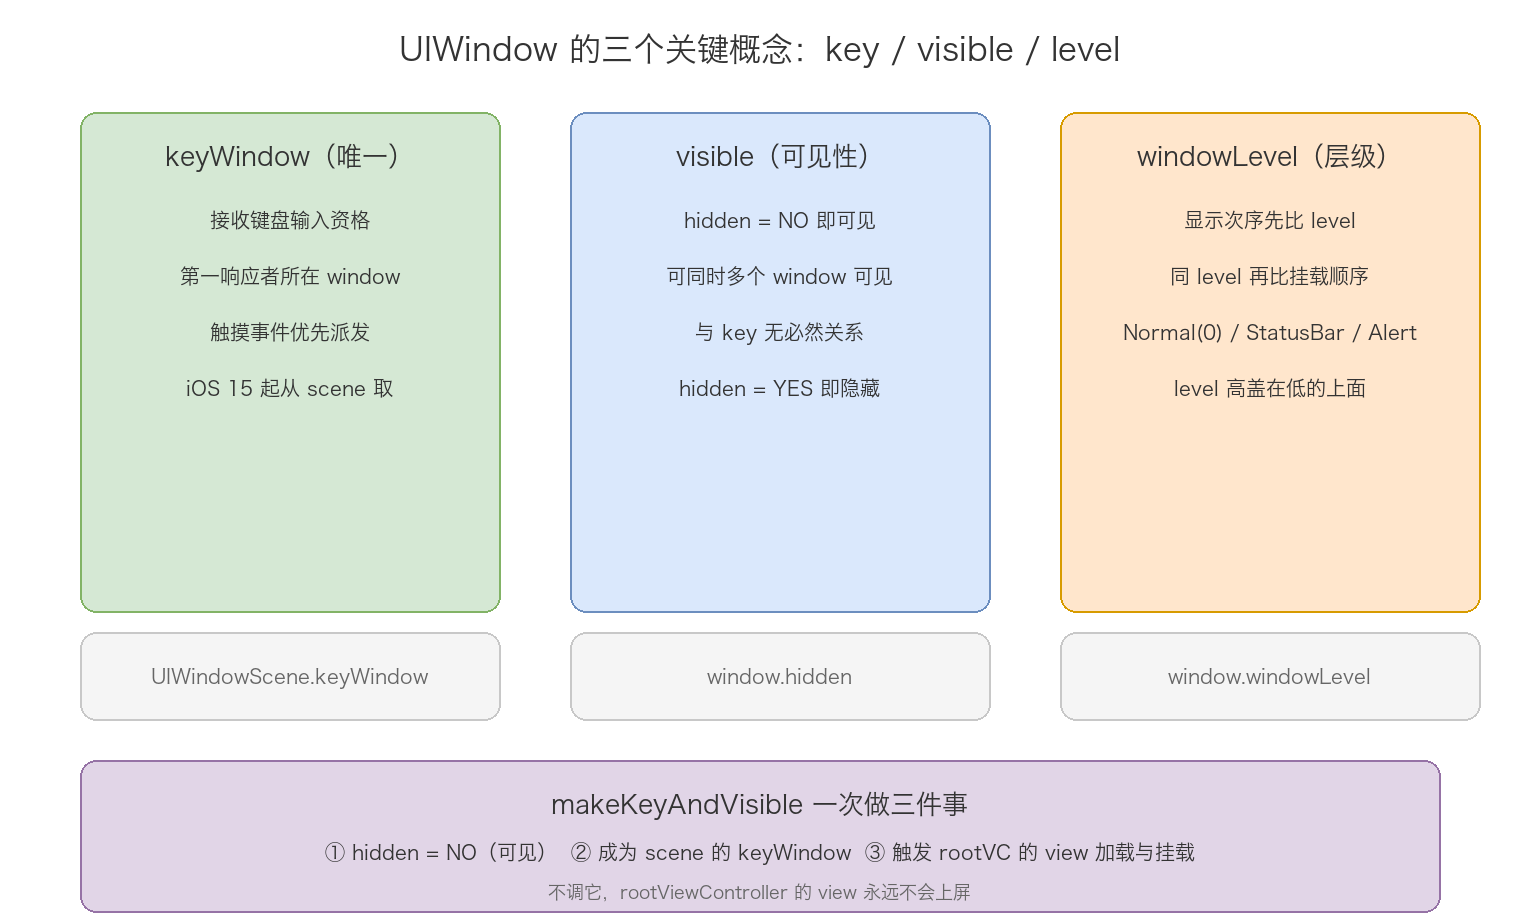
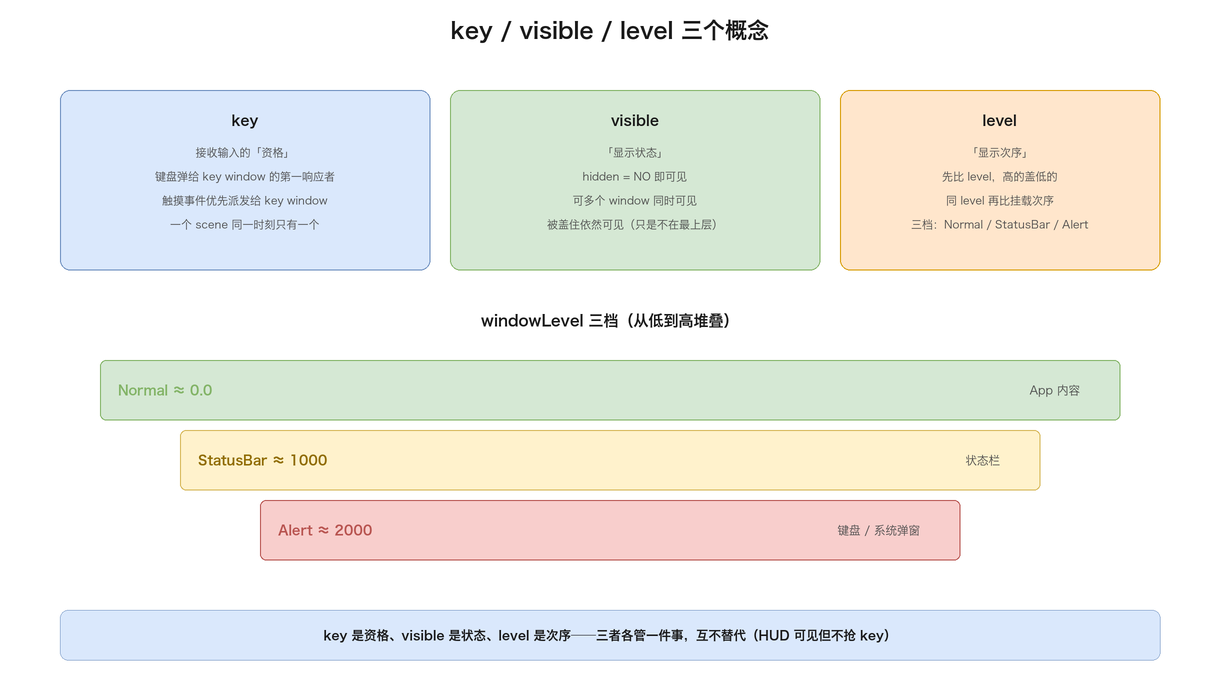
docs: 重绘 UIWindow 体系配图并补充 UIScene/UIWindow 知识点

diff --git a/notes/mobile/ios/uikit/01-UIWindow体系分析.md b/notes/mobile/ios/uikit/01-UIWindow体系分析.md
@@ -108,6 +108,131 @@ iOS 13 之后 AppDelegate 只保留两件事：进程级生命周期（applicati
 
 一个实际的兼容问题：老项目迁移 iOS 13+ 时，如果 Info.plist 里没有 UIApplicationSceneManifest，系统走老路径，AppDelegate 继续管 window，程序也能跑。所以有些项目「半迁移」状态下两套代码并存，排查启动问题时先看这个 manifest 有没有配。
 
+### 4. scene 的配置：Info.plist 与 UISceneConfiguration
+
+scene 不是凭空出现的，它的「出生规格」由两处共同决定：Info.plist 里的静态声明，和运行时返回的 UISceneConfiguration 对象。
+
+Info.plist 的 UIApplicationSceneManifest 是一份声明表，告诉系统这个 App 支持哪些场景、每个场景用什么 delegate、有没有 storyboard：
+
+```xml
+<key>UIApplicationSceneManifest</key>
+<dict>
+    <key>UIApplicationSupportsMultipleScenes</key>
+    <true/>
+    <key>UISceneConfigurations</key>
+    <dict>
+        <key>UIWindowSceneSessionRoleApplication</key>
+        <array>
+            <dict>
+                <key>UISceneConfigurationName</key>
+                <string>Default Configuration</string>
+                <key>UISceneDelegateClassName</key>
+                <string>SceneDelegate</string>
+                <key>UISceneStoryboardFile</key>
+                <string>Main</string>
+            </dict>
+        </array>
+        <key>UIWindowSceneSessionRoleExternalDisplay</key>
+        <array>
+            <dict>
+                <key>UISceneConfigurationName</key>
+                <string>External Display</string>
+                <key>UISceneDelegateClassName</key>
+                <string>ExternalSceneDelegate</string>
+            </dict>
+        </array>
+    </dict>
+</dict>
+```
+
+三个关键字段的作用：
+
+| 字段 | 作用 |
+| ---- | ---- |
+| `UIApplicationSupportsMultipleScenes` | 是否支持多场景。YES 才允许 iPad 多窗口，老 App 迁移多窗口时加这个开关 |
+| `UISceneConfigurations` | 按 role 分组：Application（主窗口）、ExternalDisplay（外接屏） |
+| 每个配置里的 `UISceneConfigurationName` | 配置名，运行时按这个名字去取对应的 UISceneConfiguration |
+
+运行时侧，AppDelegate 的回调返回一个 UISceneConfiguration，系统拿它去实例化 scene 和 delegate：
+
+```objc
+- (UISceneConfiguration *)application:(UIApplication *)application
+    configurationForConnectingSceneSession:(UISceneSession *)connectingSceneSession
+                                  options:(UISceneConnectionOptions *)options {
+    if (connectingSceneSession.role == UISceneSessionRoleExternalDisplay) {
+        return [UISceneConfiguration configurationWithName:@"External Display"
+                                               sessionRole:connectingSceneSession.role];
+    }
+    return [UISceneConfiguration configurationWithName:@"Default Configuration"
+                                           sessionRole:connectingSceneSession.role];
+}
+```
+
+UISceneConfiguration 的四个核心属性：
+
+```objc
+@interface UISceneConfiguration : NSObject
+@property(nonatomic, readonly, copy) NSString *name;              // 与 plist 里名字对应
+@property(nonatomic, readonly) UISceneSessionRole role;            // Application / ExternalDisplay
+@property(nonatomic, strong) Class sceneClass;                     // 默认 UIWindowScene
+@property(nonatomic, strong) Class delegateClass;                  // 默认 SceneDelegate
+@property(nonatomic, strong, nullable) UIStoryboard *storyboard;   // 关联 storyboard（可选）
+@end
+```
+
+一个容易踩的坑：`configurationWithName:` 传的名字必须和 Info.plist 里某个 `UISceneConfigurationName` 完全一致，否则系统找不到对应配置直接崩溃。纯代码建 UI（不用 storyboard）时，`UISceneDelegateClassName` 要写、`UISceneStoryboardFile` 留空，否则系统会去找一个不存在的 Main.storyboard。
+
+### 5. UISceneActivationState：四种激活状态
+
+scene 当前「处于什么阶段」用 UISceneActivationState 描述，四种取值：
+
+```c
+typedef NS_ENUM(NSInteger, UISceneActivationState) {
+    UISceneActivationStateUnattached         = -1,  // 未连接：已注册但尚未激活
+    UISceneActivationStateForegroundActive   = 0,   // 前台活跃：可交互、收事件
+    UISceneActivationStateForegroundInactive = 1,   // 前台非活跃：可见但不可交互
+    UISceneActivationStateBackground         = 2,   // 后台：不可见
+};
+```
+
+这四种状态正好对应第 2 节生命周期状态机里的四个节点，迁移时机和回调一一对应：
+
+| 状态迁移 | 触发回调 |
+| ---- | ---- |
+| Unattached → ForegroundInactive | `scene:willConnectToSession:options:` |
+| ForegroundInactive → ForegroundActive | `sceneDidBecomeActive:` |
+| ForegroundActive → ForegroundInactive | `sceneWillResignActive:` |
+| ForegroundInactive → Background | `sceneDidEnterBackground:` |
+| 任一状态 → Unattached | `sceneDidDisconnect:` |
+
+判断「现在哪个 scene 在最前面」就是遍历 connectedScenes 找 activationState 等于 ForegroundActive 的那个——第三章取 keyWindow 的代码里就是这么干的。理解这个枚举，也就理解了为什么多场景下不能用「App 是否 active」判断「当前窗口是否可交互」：active 是 per-scene 的，两个并排窗口一个 active 一个 inactive。
+
+### 6. UIWindowScene：scene 与 window 的绑定
+
+UIScene 是抽象基类，日常打交道的是它的子类 UIWindowScene——只有带 window 的 scene 才对普通 App 有意义。UIWindowScene 持有这个 scene 下的所有 window 和屏幕信息：
+
+```objc
+@interface UIWindowScene : UIScene
+@property(nonatomic, readonly) NSArray<UIWindow *> *windows;       // 该 scene 下的所有 window
+@property(nonatomic, readonly) UIScreen *screen;                    // 关联的屏幕
+@property(nonatomic, readonly) UICoordinateSpace *coordinateSpace;  // 坐标空间
+@property(nonatomic, readonly) UIWindowSceneSizeRestrictions *sizeRestrictions; // 尺寸限制
+@property(nonatomic, readonly, nullable) UIWindow *keyWindow;       // iOS 15+ 取 keyWindow 入口
+@end
+```
+
+几个字段的语义：`screen` 决定 window 画在哪块屏（主屏还是外接屏，外接屏场景拿到的 UIWindowScene 的 screen 就是外接那块）；`coordinateSpace` 是 window 坐标的顶层基准，第三章会讲到 safeAreaInsets 从这里下发；`keyWindow` 是 iOS 15 之后官方推荐的 keyWindow 查询入口，替代废弃的 `UIApplication.keyWindow`。
+
+window 与 scene 的绑定是强制的：iOS 13 之后创建 window 必须走 `initWithWindowScene:`，把 window 从出生就钉在某个 scene 上。这也是 delegate 协议分层的意义——`UISceneDelegate` 本身没有 window 属性，只有它的子协议 `UIWindowSceneDelegate` 才有：
+
+```objc
+@protocol UIWindowSceneDelegate <UISceneDelegate>
+@property(nullable, nonatomic, strong) UIWindow *window;
+@end
+```
+
+所以模板里的 SceneDelegate 声明成遵循 UIWindowSceneDelegate，才能 `self.window = ...`；这也是「建 window」这步必须发生在 scene 的 willConnect 回调里的原因——此时 UIWindowScene 已经就绪，可以用它初始化 window。
+
 ## 三、UIWindow：view 树的根与事件入口
 
 ### 1. 本质：UIView 的子类
@@ -166,6 +291,79 @@ hud.rootViewController = [[HUDViewController alloc] init];
 ```
 
 更准确的说法：想让 window 显示但不抢 key，不调 makeKeyAndVisible，直接把它 addSubview 到另一个 window（或设 hidden = NO 且挂上 rootVC 后调 becomeKeyWindow 之外的路）。头文件注释给过原话：「To make the window visible without becoming key, just use UIView's hidden property」。实际操作里，把 HUD window 的 hidden 设为 NO 并挂好 rootVC，它就显示在 level 决定的位置，不碰 keyWindow 的归属。
+
+### 4. 作为 UIView 的特殊行为：frame、坐标与撑满
+
+UIWindow 是 UIView 的子类，但它的 frame 和布局行为跟普通 view 不一样，几个点值得单独记住：
+
+window 的 frame 不由 Auto Layout 决定。它没有 superview，frame 由绑定的 scene / screen 决定——主屏 window 就是整块屏幕大小，外接屏 window 是外接屏大小。给 window 加约束、调 translatesAutoresizingMaskIntoConstraints 都没有意义。
+
+window 的坐标是全局基准。它是最顶层的坐标空间，跨 window 的坐标换算要用 UIView 的两个转换方法：
+
+```objc
+// 把一个点在两个 window 之间转换
+CGPoint p = [view convertPoint:CGPointZero toWindow:anotherWindow];
+CGPoint back = [anotherWindow convertPoint:p fromWindow:view.window];
+```
+
+rootViewController 的 view 会自动撑满 window。设了 rootViewController 之后，rootVC 的 view 会自动 resize 成 window 大小，不需要手动设 frame 或约束。这也解释了为什么 App 的根页面不需要写 frame 就能铺满屏幕。
+
+### 5. makeKeyAndVisible 与 key 切换
+
+makeKeyAndVisible 是 window 上最常用的方法，它内部其实就两件事：`hidden = NO` 让它可见，`becomeKeyWindow` 让它成为 key。真正值得展开的是 key 的切换机制——key 是唯一的，新的上位、旧的就得让位：
+
+```objc
+[hud makeKeyAndVisible];          // hud 成为 key，原主 window 自动 resignKeyWindow
+[mainWindow makeKeyAndVisible];   // 想收回来，让主 window 再成为 key
+```
+
+`becomeKeyWindow` 会触发当前 scene 里旧 keyWindow 的 `resignKeyWindow`，这两个回调成对出现。而 `resignKeyWindow` 会连带让旧 window 里的第一响应者 resign——也就是键盘会收起来。所以「弹一个抢 key 的 HUD」会打断用户正在进行的输入，这正是第 3 节说 HUD 通常只 visible、不抢 key 的另一个理由。
+
+还有一条约束：只有 visible（hidden = NO）的 window 才能成为 key。对一个 hidden 的 window 调 becomeKeyWindow 不生效，这是排查「为什么这个 window 没成为 key」时要先查的点。
+
+### 6. sendEvent: 与 UIWindow 子类化
+
+UIWindow 的 `sendEvent:` 是触摸事件进到 window 后的入口，UIApplication 把事件路由到所属 window 后，window 的 sendEvent: 再往下走 hitTest 和分发。子类化 UIWindow 重写这个方法，是很多「全局事件处理」的实现基础：
+
+```objc
+@implementation MyWindow
+- (void)sendEvent:(UIEvent *)event {
+    // 所有事件分发前统一处理：全局埋点、触摸检测、防抓屏等
+    if (event.type == UIEventTypeTouches) {
+        // 拿到触摸做想做的事
+    }
+    [super sendEvent:event];   // 必须调 super，否则事件不再往下分发
+}
+@end
+```
+
+子类化 UIWindow 的常见用途：
+
+| 用途 | 做法 |
+| ---- | ---- |
+| 全链路事件埋点 | 重写 `sendEvent:` 记录所有触摸 |
+| 扩展视图响应区域 | 重写 `hitTest:withEvent:` 扩大命中范围 |
+| 屏蔽某个区域触摸 | 重写 `hitTest:withEvent:` 对特定点返回 nil |
+| 摇一摇 / 边缘手势 | 在 `sendEvent:` 里识别 motion 事件 |
+
+两个坑。第一，重写 `sendEvent:` 必须调 super，否则事件全丢，整个界面点不动。第二，要用子类化 window，创建时就得用它——SceneDelegate 里 `self.window = [[MyWindow alloc] initWithWindowScene:ws]`，不能先建 UIWindow 再指望它变子类。
+
+### 7. 第一响应者与键盘
+
+window 体系的「输入」终点是第一响应者，keyWindow 决定键盘和输入事件流给谁：
+
+- keyWindow 里的第一响应者才能接收键盘输入；
+- 键盘（inputView）弹给 keyWindow 的 firstResponder；
+- keyWindow 切换会让 firstResponder 连带 resign。
+
+```objc
+[textField becomeFirstResponder];  // 弹键盘
+[textField resignFirstResponder];  // 收键盘
+```
+
+一个常见坑：textField 所在的 window 不是 keyWindow 时，键盘弹不出来，或者已经弹出的键盘会收起。比如弹了个抢 key 的 HUD，正在输入的 textField 因为所在 window resignKeyWindow 而自动 resign，键盘就收了。这也是「HUD 只 visible、不抢 key」这条原则的第三个落点。
+
+window 本身继承 UIResponder，也能成为 firstResponder，但实际极少这么用——输入焦点通常交给具体的输入控件，window 只负责把「谁是 key」这件事定下来。
 
 ## 四、rootViewController：window 与 VC 的粘连点
 
